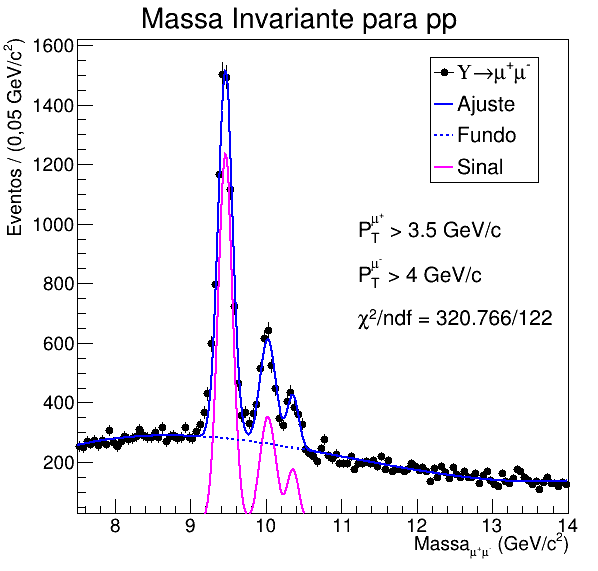
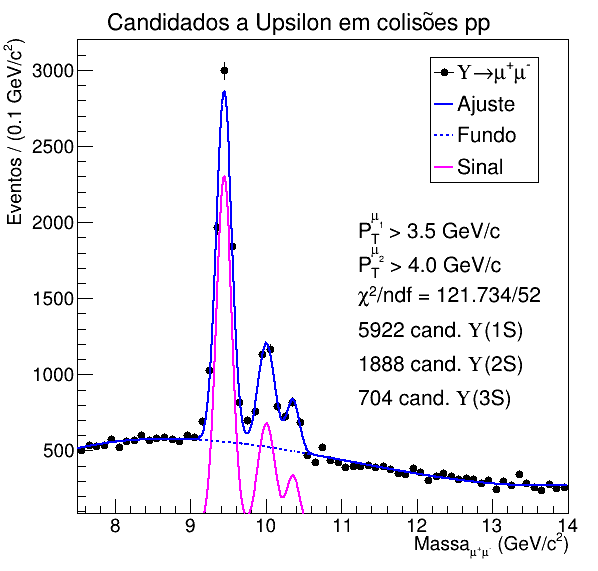
Atualização de desfixação

diff --git a/exercicio1.C b/exercicio1.C
@@ -286,10 +286,18 @@ void invariantmasspp(){
 	f->SetParameter(4, 10.02326); //PDG value
 	f->SetParameter(5, 0.109);
 
+	//Relação fornecida pelo slide
+	//f->SetParameter(5, f->GetParameter(4)/f->GetParameter(1)*f->GetParameter(2));
+
+	// cout << f->GetParameter(4)/f->GetParameter(1)*f->GetParameter(2) <<endl;
+
 	//Values Y(3S)
 	f->SetParameter(6, 60.7);
 	f->SetParameter(7, 10.3552); //PDG value
 	f->SetParameter(8, 0.08);
+
+	//Relação fornecida pelo slide
+	//f->SetParameter(8, f->GetParameter(7)/f->GetParameter(4)*f->GetParameter(5));
 
 	//Values Background
 	f->SetParameter(9, -1205.0);
